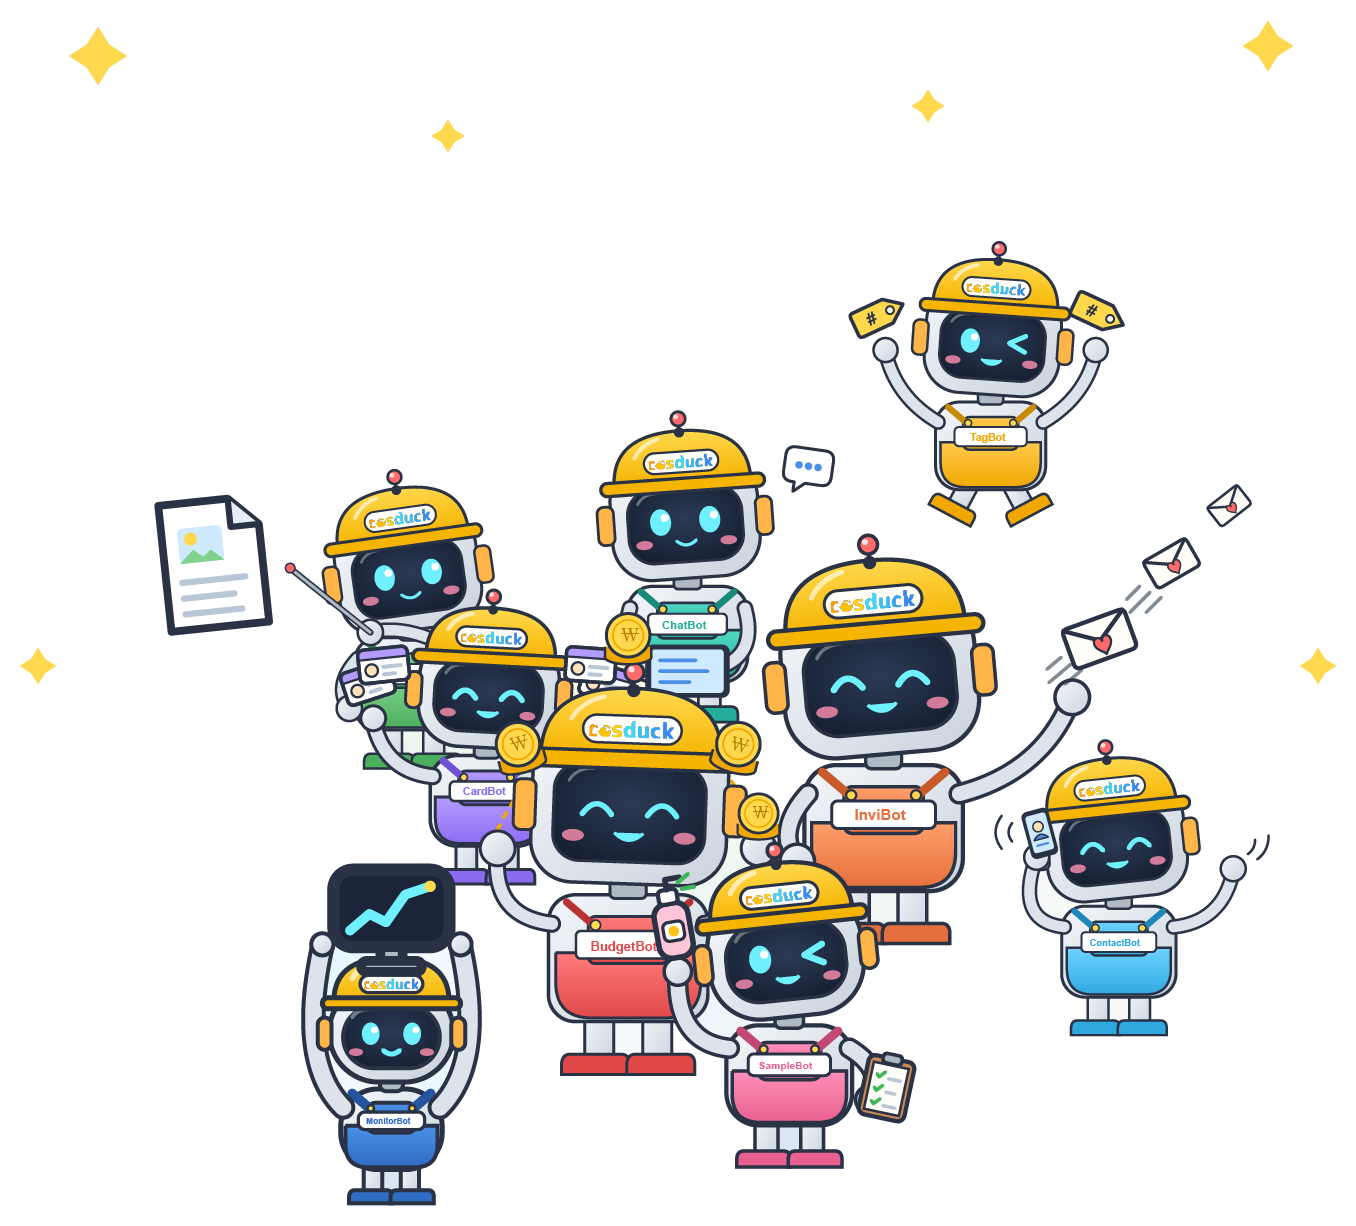
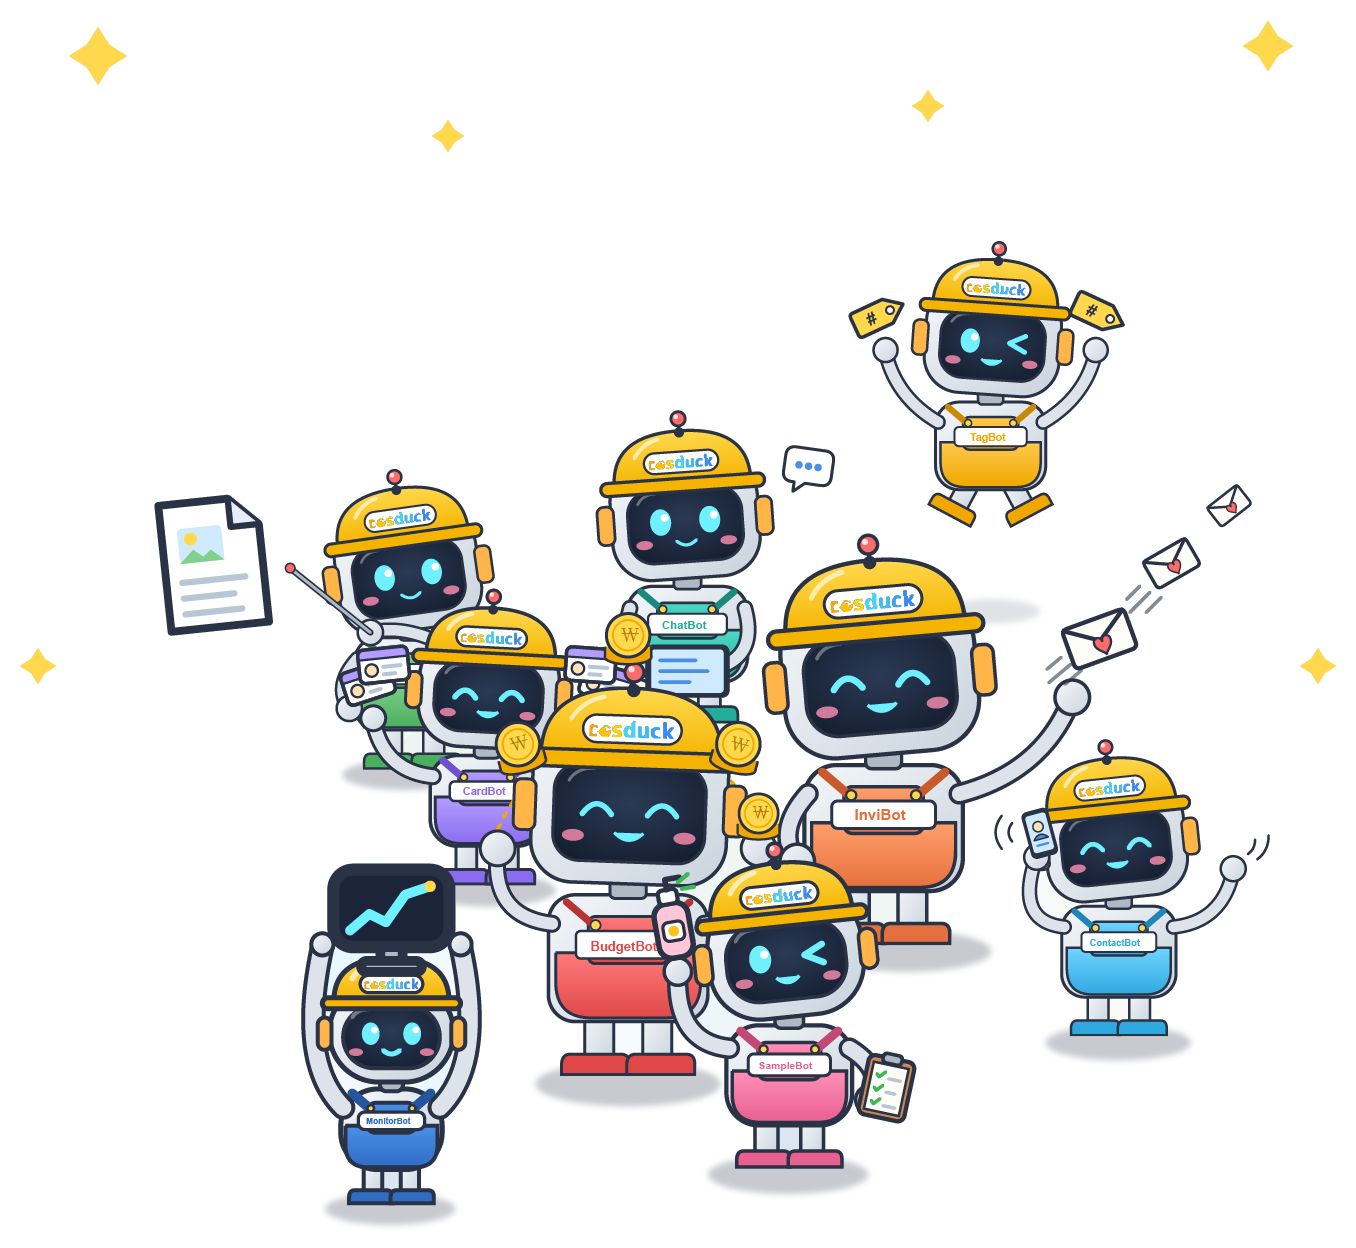
Update bot illustration to shadow version and increase size

diff --git a/app/page.tsx b/app/page.tsx
@@ -918,7 +918,7 @@ function Services() {
       </div>
       {/* 봇 일러스트 오른쪽 */}
       <div className="hidden md:flex items-center shrink-0">
-        <img src="/bot-squad.png" alt="코스덕 자동화 봇" className="w-64 lg:w-80" />
+        <img src="/bot-squad.png" alt="코스덕 자동화 봇" className="w-80 lg:w-96" />
       </div>
       </div>
 
